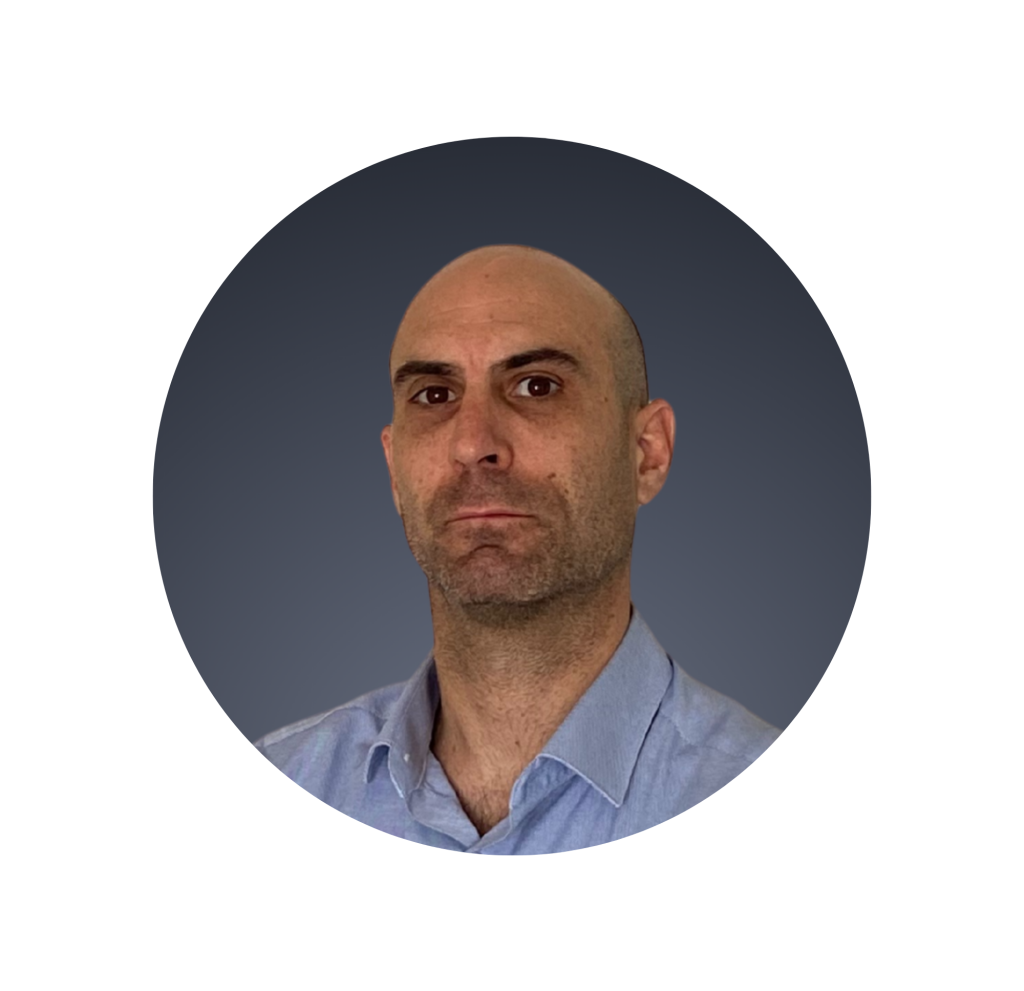
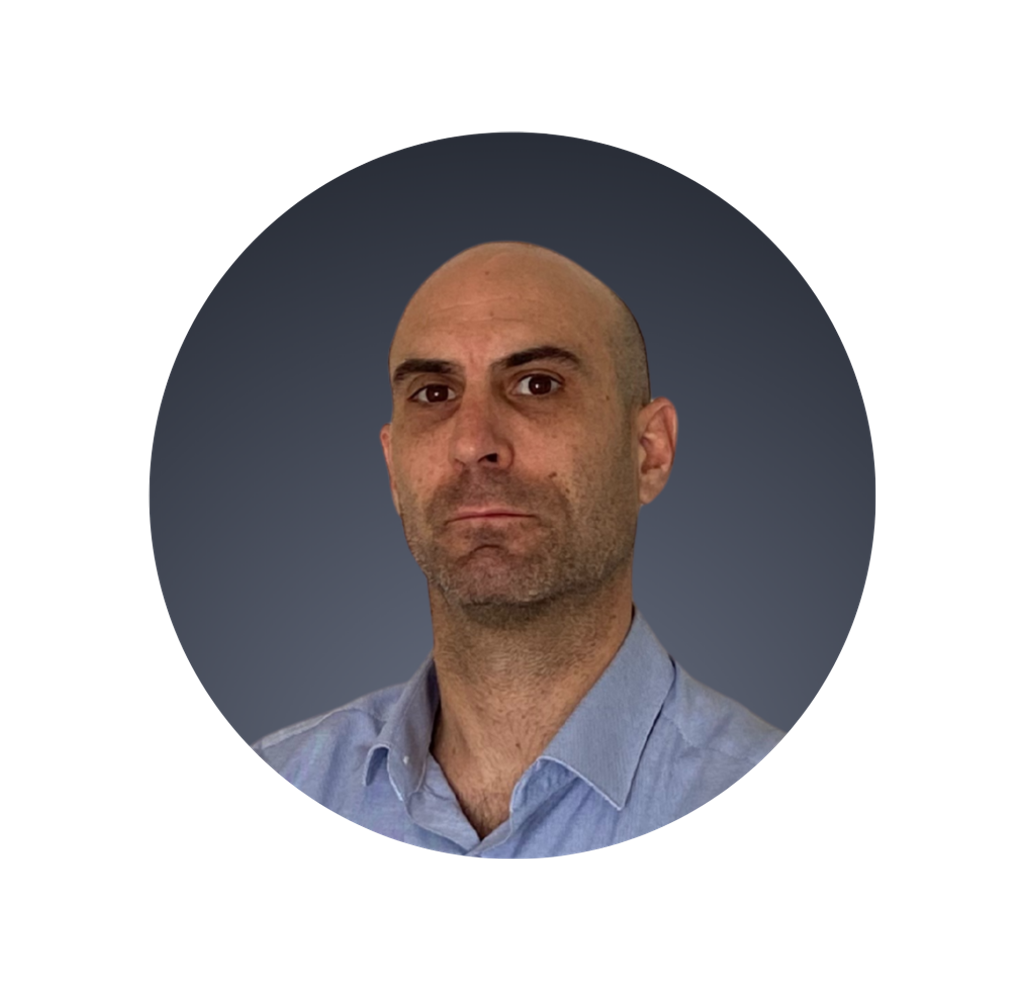
SE ACTUALIZA CARDS DE TEAM

diff --git a/client/src/lib/corpTeamPhotoNormalize.ts b/client/src/lib/corpTeamPhotoNormalize.ts
@@ -4,12 +4,9 @@ import { HOSTED_INLINE_IMAGE_MAX_BYTES, marketplaceUploadUsesInlineImages } from
 export const CORP_TEAM_PHOTO_WIDTH = 1024;
 export const CORP_TEAM_PHOTO_HEIGHT = 991;
 
-const TEAM_FRAME_BG = "#f3f4f6";
-const TEAM_RING_COLOR = "#e5e7eb";
-
-/** Geometría medida en JV-Team-1024x991.png */
-const TEAM_CIRCLE_CY_RATIO = 0.4889;
-const TEAM_CIRCLE_DIAM_RATIO = 688.5 / 1024;
+/** Geometría medida en JV-Team-1024x991.png (728px @ cy 495). */
+const TEAM_CIRCLE_CY_RATIO = 495 / 991;
+const TEAM_CIRCLE_DIAM_RATIO = 728 / 1024;
 const TEAM_FOCUS_Y = 0.24;
 
 async function loadImageElement(file: File): Promise<HTMLImageElement> {
@@ -52,15 +49,15 @@ function renderTeamPhotoCanvas(img: HTMLImageElement): HTMLCanvasElement {
   const canvas = document.createElement("canvas");
   canvas.width = w;
   canvas.height = h;
-  const ctx = canvas.getContext("2d");
+  const ctx = canvas.getContext("2d", { alpha: true });
   if (!ctx) throw new Error("No se pudo preparar la foto.");
 
-  ctx.fillStyle = TEAM_FRAME_BG;
-  ctx.fillRect(0, 0, w, h);
+  ctx.clearRect(0, 0, w, h);
+  ctx.imageSmoothingEnabled = true;
+  ctx.imageSmoothingQuality = "high";
 
   const cx = w / 2;
   const cy = h * TEAM_CIRCLE_CY_RATIO;
-  const lineWidth = Math.max(2, Math.round(w * 0.002));
   const radius = (w * TEAM_CIRCLE_DIAM_RATIO) / 2;
   const box = radius * 2;
 
@@ -71,21 +68,14 @@ function renderTeamPhotoCanvas(img: HTMLImageElement): HTMLCanvasElement {
   drawCoverWithFocus(ctx, img, cx - radius, cy - radius, box, box, 0.5, TEAM_FOCUS_Y);
   ctx.restore();
 
-  const strokeRadius = Math.max(1, radius - lineWidth);
-  ctx.beginPath();
-  ctx.arc(cx, cy, strokeRadius, 0, Math.PI * 2);
-  ctx.strokeStyle = TEAM_RING_COLOR;
-  ctx.lineWidth = lineWidth;
-  ctx.stroke();
-
   return canvas;
 }
 
-async function canvasToJpegFile(canvas: HTMLCanvasElement, baseName: string, quality: number): Promise<File> {
-  const blob = await new Promise<Blob | null>((resolve) => canvas.toBlob(resolve, "image/jpeg", quality));
+async function canvasToPngFile(canvas: HTMLCanvasElement, baseName: string): Promise<File> {
+  const blob = await new Promise<Blob | null>((resolve) => canvas.toBlob(resolve, "image/png"));
   if (!blob || blob.size <= 0) throw new Error("No se pudo exportar la foto.");
   const safeBase = baseName.replace(/\.[^.]+$/, "").replace(/[^\w.-]+/g, "-") || "team";
-  return new File([blob], `${safeBase}-team.jpg`, { type: "image/jpeg" });
+  return new File([blob], `${safeBase}-team.png`, { type: "image/png" });
 }
 
 /** Convierte cualquier foto rectangular al formato circular del team (1024×991). */
@@ -103,11 +93,9 @@ export async function normalizeCorpTeamPhotoFile(file: File): Promise<File> {
   const canvas = renderTeamPhotoCanvas(img);
   const hosted = marketplaceUploadUsesInlineImages();
   const maxBytes = hosted ? HOSTED_INLINE_IMAGE_MAX_BYTES : 650_000;
-  let quality = hosted ? 0.8 : 0.88;
-  let out = await canvasToJpegFile(canvas, file.name, quality);
-  while (out.size > maxBytes && quality > 0.52) {
-    quality -= 0.05;
-    out = await canvasToJpegFile(canvas, file.name, quality);
+  let out = await canvasToPngFile(canvas, file.name);
+  if (out.size > maxBytes) {
+    throw new Error("La foto normalizada supera el tamaño máximo permitido. Probá con una imagen más pequeña.");
   }
   return out;
 }

diff --git a/client/src/pages/MarketplaceCompanyPage.tsx b/client/src/pages/MarketplaceCompanyPage.tsx
@@ -5,7 +5,7 @@ import { useMarketplaceLang } from "../contexts/MarketplaceLanguageContext.js";
 import "../styles/marketplace-hashrate.css";
 
 import { wpUpload } from "../lib/marketplaceWpAssets.js";
-import { getMarketplaceCorpCompanyTeam } from "../lib/api.js";
+import { CORP_COMPANY_TEAM_UPDATED_EVENT, getMarketplaceCorpCompanyTeam } from "../lib/api.js";
 
 type DefaultTeamMemberId = "fab" | "jv" | "af" | "dg" | "rg" | "ab" | "dv";
 
@@ -175,10 +175,21 @@ export function MarketplaceCompanyPage() {
     const onVisible = () => {
       if (document.visibilityState === "visible") loadTeamFromApi();
     };
+    const onFocus = () => loadTeamFromApi();
+    const onTeamUpdated = () => loadTeamFromApi();
+    const onStorage = (e: StorageEvent) => {
+      if (e.key === CORP_COMPANY_TEAM_UPDATED_EVENT) loadTeamFromApi();
+    };
     document.addEventListener("visibilitychange", onVisible);
+    window.addEventListener("focus", onFocus);
+    window.addEventListener(CORP_COMPANY_TEAM_UPDATED_EVENT, onTeamUpdated);
+    window.addEventListener("storage", onStorage);
     return () => {
       cancelled = true;
       document.removeEventListener("visibilitychange", onVisible);
+      window.removeEventListener("focus", onFocus);
+      window.removeEventListener(CORP_COMPANY_TEAM_UPDATED_EVENT, onTeamUpdated);
+      window.removeEventListener("storage", onStorage);
     };
   }, []);
 
@@ -249,7 +260,15 @@ export function MarketplaceCompanyPage() {
                           aria-controls={openMemberId === m.id ? dialogTitleId : undefined}
                         >
                           <span className="market-corp-team-card__media">
-                            <img src={m.imageUrl} alt="" width={500} height={500} loading="lazy" decoding="async" />
+                            <img
+                              key={m.imageUrl}
+                              src={m.imageUrl}
+                              alt=""
+                              width={500}
+                              height={500}
+                              loading="lazy"
+                              decoding="async"
+                            />
                           </span>
                           <span className="market-corp-team-card__meta">
                             <span className="market-corp-team-card__role">{m.role}</span>

diff --git a/client/src/components/TiendaOnlineCorpCompanyTeamSection.tsx b/client/src/components/TiendaOnlineCorpCompanyTeamSection.tsx
@@ -4,6 +4,8 @@ import { useMarketplaceLang } from "../contexts/MarketplaceLanguageContext.js";
 import { wpUpload } from "../lib/marketplaceWpAssets.js";
 import {
   getEquiposMarketplaceCorpCompanyTeam,
+  notifyCorpCompanyTeamUpdated,
+  patchEquiposMarketplaceCorpCompanyTeamPhoto,
   putEquiposMarketplaceCorpCompanyTeam,
   uploadMarketplaceAsicImage,
   type CorpCompanyTeamMemberDto,
@@ -151,6 +153,7 @@ export function TiendaOnlineCorpCompanyTeamSection({ isEditionLocked }: { isEdit
         savedSnapshotRef.current = JSON.stringify(saved);
         loadedOriginalPhotosRef.current = snapshotOriginalPhotos(saved);
         setPhotoUndoByMemberId({});
+        notifyCorpCompanyTeamUpdated();
         if (toastMsg) showToast(toastMsg, "success", "Equipo de la empresa");
       } catch (e) {
         showToast(e instanceof Error ? e.message : "Error al guardar", "error", "Equipo de la empresa");
@@ -183,9 +186,13 @@ export function TiendaOnlineCorpCompanyTeamSection({ isEditionLocked }: { isEdit
       if (previousUrl && previousUrl !== url) {
         setPhotoUndoByMemberId((prev) => ({ ...prev, [memberId]: previousUrl }));
       }
-      const next = members.map((m) => (m.id === memberId ? { ...m, imageUrl: url } : m));
-      setMembers(next);
-      // No persistimos auto para no forzar múltiples PUT; el usuario guarda al final.
+      const patched = await patchEquiposMarketplaceCorpCompanyTeamPhoto(memberId, url);
+      const saved = patched.members ?? members.map((m) => (m.id === memberId ? { ...m, imageUrl: url } : m));
+      setMembers(saved);
+      savedSnapshotRef.current = JSON.stringify(saved);
+      loadedOriginalPhotosRef.current = snapshotOriginalPhotos(saved);
+      notifyCorpCompanyTeamUpdated();
+      showToast("Foto guardada — ya visible en /company", "success", "Equipo de la empresa");
     } catch (e) {
       showToast(e instanceof Error ? e.message : "Error al subir imagen", "error", "Equipo de la empresa");
     } finally {

diff --git a/server/src/routes/equipos.ts b/server/src/routes/equipos.ts
@@ -651,6 +651,37 @@ equiposRouter.put(
   }
 );
 
+/** PATCH /equipos/marketplace-corp-company-team/:memberId/photo — actualizar solo la foto de un integrante. */
+equiposRouter.patch(
+  "/equipos/marketplace-corp-company-team/:memberId/photo",
+  requireAuth,
+  ...requireEquiposTiendaAdmin,
+  async (req, res: Response) => {
+    const memberId = String(req.params.memberId ?? "").trim();
+    const imageUrl = String((req.body as { imageUrl?: unknown })?.imageUrl ?? "").trim();
+    if (!memberId || memberId.length > 80) {
+      return res.status(400).json({ error: { message: "Integrante inválido" } });
+    }
+    if (!imageUrl || imageUrl.length > 2_800_000) {
+      return res.status(400).json({ error: { message: "URL de imagen inválida" } });
+    }
+    try {
+      const members = await readCorpCompanyTeamAdmin();
+      const idx = members.findIndex((m) => m.id === memberId);
+      if (idx < 0) {
+        return res.status(404).json({ error: { message: "Integrante no encontrado" } });
+      }
+      members[idx] = { ...members[idx]!, imageUrl };
+      const saved = await writeCorpCompanyTeamAdmin(members);
+      const member = saved.find((m) => m.id === memberId);
+      res.json({ ok: true, member, members: saved });
+    } catch (e) {
+      const msg = e instanceof Error ? e.message : String(e);
+      res.status(500).json({ error: { message: msg } });
+    }
+  }
+);
+
 /** PUT /equipos/marketplace-corp-interesting — guardar sección home (solo admin A/B). */
 equiposRouter.put(
   "/equipos/marketplace-corp-interesting",

diff --git a/client/src/lib/api.ts b/client/src/lib/api.ts
@@ -2220,7 +2220,7 @@ export type CorpCompanyTeamMemberDto = {
 
 /** Equipo de la empresa en sección de compañía (público). */
 export function getMarketplaceCorpCompanyTeam(): Promise<{ members: CorpCompanyTeamMemberDto[] }> {
-  return api<{ members: CorpCompanyTeamMemberDto[] }>("/api/marketplace/corp-company-team", {
+  return api<{ members: CorpCompanyTeamMemberDto[] }>(`/api/marketplace/corp-company-team?_=${Date.now()}`, {
     cache: "no-store",
   });
 }
@@ -2239,6 +2239,32 @@ export function putEquiposMarketplaceCorpCompanyTeam(body: {
     method: "PUT",
     body: JSON.stringify(body),
   });
+}
+
+/** Actualizar solo la foto de un integrante (admin). */
+export function patchEquiposMarketplaceCorpCompanyTeamPhoto(
+  memberId: string,
+  imageUrl: string
+): Promise<{ ok: boolean; member: CorpCompanyTeamMemberDto; members: CorpCompanyTeamMemberDto[] }> {
+  return api<{ ok: boolean; member: CorpCompanyTeamMemberDto; members: CorpCompanyTeamMemberDto[] }>(
+    `/api/equipos/marketplace-corp-company-team/${encodeURIComponent(memberId)}/photo`,
+    {
+      method: "PATCH",
+      body: JSON.stringify({ imageUrl }),
+    }
+  );
+}
+
+export const CORP_COMPANY_TEAM_UPDATED_EVENT = "corp-company-team-updated";
+
+export function notifyCorpCompanyTeamUpdated(): void {
+  if (typeof window === "undefined") return;
+  window.dispatchEvent(new CustomEvent(CORP_COMPANY_TEAM_UPDATED_EVENT));
+  try {
+    localStorage.setItem(CORP_COMPANY_TEAM_UPDATED_EVENT, String(Date.now()));
+  } catch {
+    /* ignore */
+  }
 }
 
 /**

diff --git a/client/src/styles/marketplace-hashrate.css b/client/src/styles/marketplace-hashrate.css
@@ -11008,7 +11008,7 @@ a.market-corp-clients__item {
   display: grid;
   grid-template-columns: repeat(auto-fill, minmax(300px, 1fr));
   gap: clamp(1.35rem, 3.1vw, 2.1rem);
-  align-items: start;
+  align-items: stretch;
 }
 
 @media (min-width: 640px) {
@@ -11019,14 +11019,18 @@ a.market-corp-clients__item {
 
 .market-corp-team-card {
   margin: 0;
-  height: auto;
+  height: 100%;
+  display: flex;
+  flex-direction: column;
 }
 
 .market-corp-team-card__btn {
   display: flex;
   flex-direction: column;
   width: 100%;
-  height: auto;
+  height: 100%;
+  flex: 1 1 auto;
+  min-height: 100%;
   padding: 0;
   border: none;
   background: transparent;
@@ -11093,9 +11097,8 @@ a.market-corp-clients__item {
   flex-direction: column;
   gap: 0.25rem;
   padding: 1rem 0.9rem 1.2rem;
-  min-height: min-content;
+  flex: 1 1 auto;
   justify-content: flex-start;
-  flex: 0 0 auto;
   background: #fff;
   border: 1px solid #e5e7eb;
   border-top: none;
@@ -11109,6 +11112,8 @@ a.market-corp-clients__item {
   text-transform: uppercase;
   letter-spacing: 0.06em;
   color: #059669;
+  /* Reserva 2 líneas para que el rol largo/corto no cambie la altura de la card */
+  min-height: calc(0.72rem * 1.35 * 2);
 }
 
 .market-corp-team-card__name {
